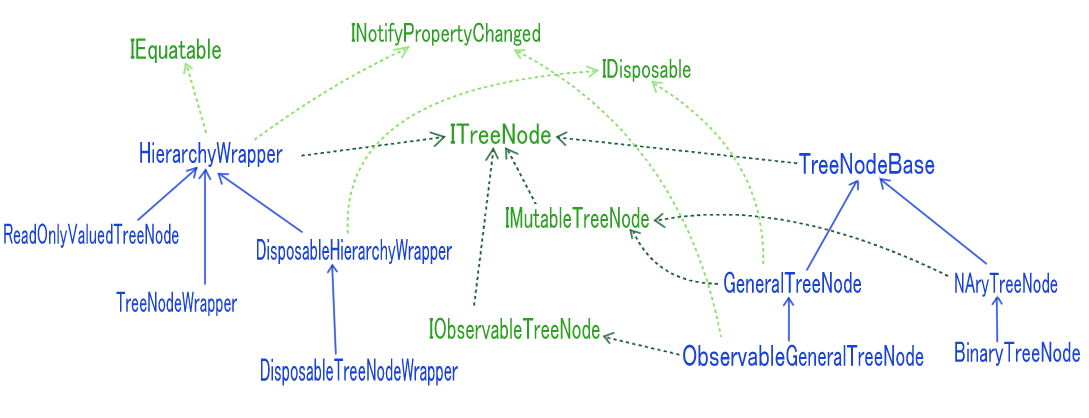
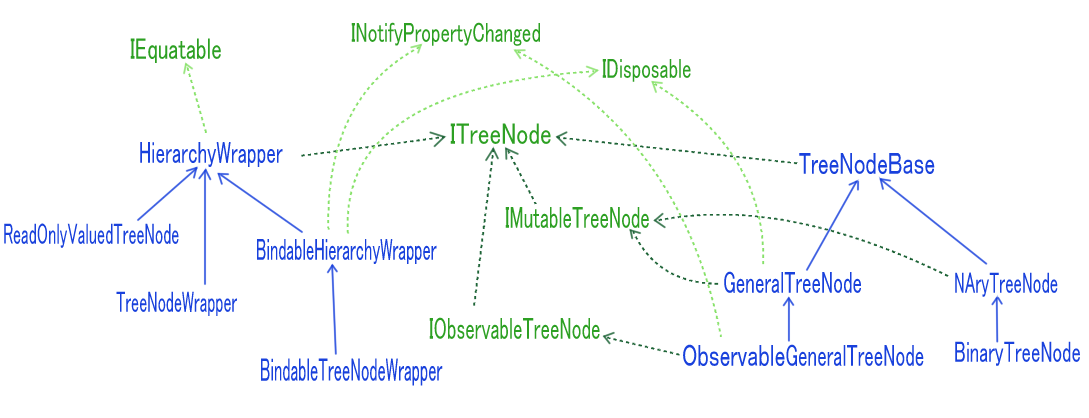
Bindableに変更

Changed region(s): [[0.2185, 0.8397, 0.4371, 0.933], [0.2185, 0.5598, 0.4371, 0.622], [0.3434, 0.0933, 0.4059, 0.1555]]

diff --git a/src/TreeStructure/TreeNode/HierarchyWrapper.cs b/src/TreeStructure/TreeNode/HierarchyWrapper.cs
@@ -23,7 +23,7 @@ namespace TreeStructures {
     /// </summary>
     /// <typeparam name="TSrc">Type representing the hierarchy object</typeparam>
     /// <typeparam name="TWrpr">Type of the wrapper node</typeparam>
-    public abstract class HierarchyWrapper<TSrc,TWrpr> : ITreeNode<TWrpr> ,INotifyPropertyChanged, /*IDisposable,*/IEquatable<HierarchyWrapper<TSrc,TWrpr>>
+    public abstract class HierarchyWrapper<TSrc,TWrpr> : ITreeNode<TWrpr> , IEquatable<HierarchyWrapper<TSrc,TWrpr>>
         where TSrc : class
         where TWrpr:HierarchyWrapper<TSrc,TWrpr> {
 
@@ -35,34 +35,21 @@ namespace TreeStructures {
         protected HierarchyWrapper(TSrc source) { 
             Source = source;
         }
-        #region NotifyPropertyChanged
-        PropertyChangeProxy? _propChangeProxy;
-        PropertyChangeProxy PropChangeProxy => _propChangeProxy ??= new PropertyChangeProxy(this);
-        /// <summary><inheritdoc/></summary>
-        public event PropertyChangedEventHandler? PropertyChanged {
-            add { this.PropChangeProxy.PropertyChanged += value; }
-            remove { this.PropChangeProxy.PropertyChanged -= value; }
-        }
-        /// <summary>
-        /// Performs the change of value and issues a change notification.
-        /// </summary>
-        protected virtual bool SetProperty<T>(ref T storage, T value, [CallerMemberName] string? propertyName = null) =>
-            PropChangeProxy.SetWithNotify(ref storage, value, propertyName);
-        /// <summary>
-        ///  Issues a property change notification.
-        /// </summary>
-        /// <param name="propertyName"></param>
-        protected void RaisePropertyChanged([CallerMemberName] string? propertyName = null) =>
-            PropChangeProxy.Notify(propertyName);
-        #endregion
-
+        
         TWrpr? _parent;
         /// <summary><inheritdoc/></summary>
         public TWrpr? Parent { 
             get { return _parent; }
-            private protected set {
-                SetProperty(ref _parent, value);
-            }
+            //private protected set {
+            //    //SetProperty(ref _parent, value);
+            //    if (_parent == value) return;
+            //    _parent = value;
+            //}
+        }
+        private protected virtual bool SetParent(TWrpr? parent){
+            if (object.ReferenceEquals(_parent,parent)) return false;
+            _parent = parent;
+            return true;
         }
         /// <summary>Specifies a reference to the source's child node collection. Implementing <see cref="INotifyCollectionChanged"/> is not required if synchronization is not intended.</summary>
         protected abstract IEnumerable<TSrc>? SourceChildren { get; }
@@ -92,99 +79,31 @@ namespace TreeStructures {
                 throw new NullReferenceException( msg, e);
             }
             if(cld != null) {
-                cld.Parent = this as TWrpr;
+                //cld.Parent = this as TWrpr;
+                cld.SetParent(this as TWrpr);
                 cld.IsImitating = true;
                 cld._innerChildren?.Imitate();
             }
             return cld;
         }
         void _HandleRemovedChild(TWrpr removeNode){
-            removeNode.Parent = null;
+            //removeNode.Parent = null;
+            removeNode.SetParent(null);
             //removeNode.PauseImitation();
             HandleRemovedChild(removeNode);
         }
-		/// <summary>Handles processing of a decomposed child node.</summary>
-		/// <remarks>This method is intended to be overridden in derived classes to add specific processing for an already decomposed child node.</remarks>
-		/// <param name="removedNode">Removed child node</param>
-		protected virtual void HandleRemovedChild(TWrpr removedNode) {
-            //(removedNode as IDisposable)?.Dispose();
-            //removedNode.PauseImitation();
-        }
+        /// <summary>Handles processing of a decomposed child node.</summary>
+        /// <remarks>This method is intended to be overridden in derived classes to add specific processing for an already decomposed child node.</remarks>
+        /// <param name="removedNode">Removed child node</param>
+        protected virtual void HandleRemovedChild(TWrpr removedNode) { }
+
+        
         bool _isImitating = true;
         /// <summary>Parameter indicating the state of whether the child node collection is in the imitating state when generating an instance.</summary>
         private protected bool IsImitating {
             get { return _isImitating; }
             set { if (_isImitating != value) _isImitating = value; }
         }
-        //private bool isDisposed;
-        ///// <summary></summary>
-        ///// <param name="disposing"></param>
-        //protected virtual void Dispose(bool disposing) {
-        //    if (disposing) {
-        //        this.Parent = null;
-        //        var nd = this
-        //            .Evolve(a => {
-        //                a.IsImitating = false;
-        //                return a.InnerChildren;
-        //            }, (a, b, c) => b.Prepend(a).Concat(c))
-        //            .Skip(1).Reverse().OfType<IDisposable>().ToArray();
-        //        InnerChildren.Dispose();
-        //        foreach (var n in nd) n.Dispose();
-        //    }
-        //    isDisposed = true;
-        //}
-        ///// <summary>Prohibits operations on an instance that has already been disposed.</summary>
-        //protected void ThrowExceptionIfDisposed() {
-        //    if (isDisposed) throw new ObjectDisposedException(this.ToString(), "The instance has already been disposed and cannot be operated on.");
-        //}
-        //void IDisposable.Dispose() {
-        //    if (isDisposed) return;
-        //    Dispose(disposing: true);
-        //    GC.SuppressFinalize(this);
-        //}
-
-      
-
-
-
-		//private IReadOnlyList<TWrpr> StopImitateProcess() {
-		//	var lst = this
-		//		.Evolve(a => {
-		//			a.IsImitating = false;
-		//			return a.InnerChildren;
-		//		}, (a, b, c) => b.Prepend(a).Concat(c))
-		//		.Skip(1).Reverse().ToList();
-		//	foreach (var item in lst) {
-		//		item.StopImitateProcess();
-		//	}
-		//	InnerChildren.PauseImitationAndClear();
-		//	this.Parent = null;
-		//	lst.Add((this as TWrpr)!);
-		//	return lst;
-		//}
-		///// <summary>
-		///// Disassembles descendant nodes and unsubscribes from the <see cref="HierarchyWrapper{TSrc, TWrpr}.SourceChildren"/> of each node, including the current node.
-		///// </summary>
-		///// <returns>The disassembled descendant nodes.</returns>
-		//private void PauseImitation() {
-		//	this.IsImitating = false;
-		//	var rmc = InnerChildren.Select(x => x.StopImitateProcess()).SelectMany(x => x).ToArray();
-		//	InnerChildren.PauseImitationAndClear();
-		//	//return rmc ?? Array.Empty<TWrpr>();
-
-		//}
-  //      /// <summary>Resume subscription to <see cref="CompositeWrapper{TSrc, TWrpr}.SourceChildren"/> and imitate descendant nodes.</summary>
-  //      private protected void ImitateSourceSubTree() {
-  //          //ThrowExceptionIfDisposed();
-  //          this.IsImitating = true;
-  //          InnerChildren.Imitate();
-  //      }
-
-
-
-
-
-
 
 
         /// <inheritdoc/>

diff --git a/src/TreeStructure/TreeNode/BindableHierarchyWrapper.cs b/src/TreeStructure/TreeNode/BindableHierarchyWrapper.cs
@@ -1,22 +1,24 @@
 using System;
 using System.Collections.Generic;
+using System.ComponentModel;
 using System.Linq;
+using System.Runtime.CompilerServices;
 using System.Text;
 using System.Threading.Tasks;
+using TreeStructures.EventManagement;
 using TreeStructures.Linq;
 
 namespace TreeStructures {
-	/// <summary>An object that encapsulates a hierarchy, providing the ability to dispose of the instance.</summary>
-	/// <remarks>If resource disposal is necessary, please inherit and use this class.</remarks>
+	/// <summary>Represents an object that wraps a hierarchal structure and is bindable to data.</summary>
 	/// <typeparam name="TSrc">Type of the object forming the hierarchical structure</typeparam>
 	/// <typeparam name="TWrpr">Type of the wrapper node</typeparam>
-	public abstract class DisposableHierarchyWrapper<TSrc, TWrpr> : HierarchyWrapper<TSrc, TWrpr>,IDisposable
+	public abstract class BindableHierarchyWrapper<TSrc, TWrpr> : HierarchyWrapper<TSrc, TWrpr>,INotifyPropertyChanged,IDisposable
         where TSrc : class
-        where TWrpr : DisposableHierarchyWrapper<TSrc, TWrpr> {
+        where TWrpr : BindableHierarchyWrapper<TSrc, TWrpr> {
 
         /// <summary>Initializes a new instance of the class.</summary>
         /// <param name="source">The node to be wrapped.</param>
-        protected DisposableHierarchyWrapper(TSrc source) : base(source) { }
+        protected BindableHierarchyWrapper(TSrc source) : base(source) { }
 
         /// <summary>Handles the removed child node.</summary>
         /// <remarks>
@@ -30,6 +32,34 @@ namespace TreeStructures {
             this.ThrowExceptionIfDisposed();
 			return base.GenerateAndSetupChild(sourceChildNode);
 		}
+		private protected override bool SetParent(TWrpr? parent) {
+			if(base.SetParent(parent)){
+				this.RaisePropertyChanged(nameof(Parent));
+				return true;
+			}
+			return false;
+		}
+		#region NotifyPropertyChanged
+		PropertyChangeProxy? _propChangeProxy;
+        PropertyChangeProxy PropChangeProxy => _propChangeProxy ??= new PropertyChangeProxy(this);
+        /// <summary><inheritdoc/></summary>
+        public event PropertyChangedEventHandler? PropertyChanged {
+            add { this.PropChangeProxy.PropertyChanged += value; }
+            remove { this.PropChangeProxy.PropertyChanged -= value; }
+        }
+        /// <summary>
+        /// Performs the change of value and issues a change notification.
+        /// </summary>
+        protected virtual bool SetProperty<T>(ref T storage, T value, [CallerMemberName] string? propertyName = null) =>
+            PropChangeProxy.SetWithNotify(ref storage, value, propertyName);
+        /// <summary>
+        ///  Issues a property change notification.
+        /// </summary>
+        /// <param name="propertyName"></param>
+        protected void RaisePropertyChanged([CallerMemberName] string? propertyName = null) =>
+            PropChangeProxy.Notify(propertyName);
+        #endregion
+
 		//private IReadOnlyList<TImtr> StopImitateProcess() {
 		//    this.Parent = null;
 		//    var lst = this

diff --git a/src/TreeStructure/TreeNode/BindableTreeNodeWrapper.cs b/src/TreeStructure/TreeNode/BindableTreeNodeWrapper.cs
@@ -5,16 +5,16 @@ using System.Text;
 using System.Threading.Tasks;
 
 namespace TreeStructures {
-    /// <summary>An object that wraps a <see cref="ITreeNode{TNode}"/>,providing the ability to dispose of the instance.</summary>
+    /// <summary>An object that wraps a <see cref="ITreeNode{TNode}"/> and is designed for data binding.</summary>
     /// <remarks><inheritdoc/></remarks>
     /// <typeparam name="TSrc">Type of the wrapped node</typeparam>
     /// <typeparam name="TWrpr">Type of the wrapping node</typeparam>
-    public abstract class DisposableTreeNodeWrapper<TSrc, TWrpr> : DisposableHierarchyWrapper<TSrc, TWrpr>
+    public abstract class BindableTreeNodeWrapper<TSrc, TWrpr> : BindableHierarchyWrapper<TSrc, TWrpr>
     where TSrc : class, ITreeNode<TSrc>
-    where TWrpr : DisposableTreeNodeWrapper<TSrc, TWrpr> {
+    where TWrpr : BindableTreeNodeWrapper<TSrc, TWrpr> {
         /// <summary>Initializes a new instance.</summary>
         /// <param name="sourceNode">The node to be wrapped</param>
-        protected DisposableTreeNodeWrapper(TSrc sourceNode) : base(sourceNode) { }
+        protected BindableTreeNodeWrapper(TSrc sourceNode) : base(sourceNode) { }
         /// <summary><inheritdoc/></summary>
         protected override IEnumerable<TSrc>? SourceChildren => Source?.Children;
     }

diff --git a/SampleConsoleApp/SampleF.cs b/SampleConsoleApp/SampleF.cs
@@ -1,0 +1,27 @@
+using System;
+using System.Collections.Generic;
+using System.Linq;
+using System.Text;
+using System.Threading.Tasks;
+
+namespace SampleConsoleApp;
+public static partial class UseageSample{
+	public static void MethodF(){
+		var nodeA = new MemberNode("A");
+		var wrprA = new MemberWrapper<MemberNode>(nodeA);
+		var wrprAA = new MemberWrapper<MemberNode>(nodeA);
+
+		var NullWrpr1 = new MemberWrapper<MemberNode>(null);
+		var NullWrpr2 = new MemberWrapper<MemberNode>(null);
+
+		var result1 = wrprA == wrprAA;
+		Console.WriteLine(result1);//true
+
+		var result2 = NullWrpr1 == NullWrpr2;
+		Console.WriteLine(result2);//true
+
+		var resutl3 = wrprA == new MemberWrapper<MemberNode>(new MemberNode("A"));
+		Console.WriteLine(resutl3);
+		
+	}
+}

diff --git a/SampleConsoleApp/SampleE.cs b/SampleConsoleApp/SampleE.cs
@@ -43,7 +43,7 @@ public class MemberWrapper<TSrc> : TreeNodeWrapper<TSrc,MemberWrapper<TSrc>> whe
 	public int Followers => Source.Followers;
 	public int WrappingFollowers => this.Preorder().Count() - 1;
 }
-public class DisposableMemberWrapper<TSrc>:DisposableTreeNodeWrapper<TSrc,DisposableMemberWrapper<TSrc>>
+public class DisposableMemberWrapper<TSrc>:BindableTreeNodeWrapper<TSrc,DisposableMemberWrapper<TSrc>>
 where TSrc:class, ITreeNode<TSrc>,IMemberNode{ 
 	public DisposableMemberWrapper(TSrc member):base(member){ 
 	}

diff --git a/SampleConsoleApp/Program.cs b/SampleConsoleApp/Program.cs
@@ -4,6 +4,7 @@ using SampleConsoleApp;
 using static SampleConsoleApp.UseageSample;
 
 //Console.WriteLine("Hello, World!");
+MethodF();
 MethodA();
 MethodB();
 MethodC();
